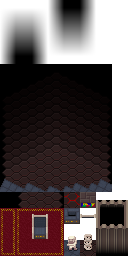
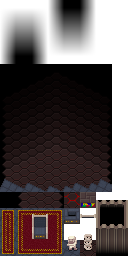
v4.0.0: initial implementation for vault tokens room (needs polishing!)

Changed region(s): [[0.0, 0.8125, 0.5, 1.0]]

diff --git a/core/src/main/java/com/shatteredpixel/shatteredpixeldungeon/Assets.java b/core/src/main/java/com/shatteredpixel/shatteredpixeldungeon/Assets.java
@@ -62,6 +62,7 @@ public class Assets {
 		public static final String WATER_CITY   = "environment/water3.png";
 		public static final String WATER_HALLS  = "environment/water4.png";
 
+		public static final String CARPET           = "environment/custom_tiles/carpet.png";
 		public static final String WEAK_FLOOR       = "environment/custom_tiles/weak_floor.png";
 		public static final String SEWER_BOSS       = "environment/custom_tiles/sewer_boss.png";
 		public static final String PRISON_QUEST     = "environment/custom_tiles/prison_quest.png";
